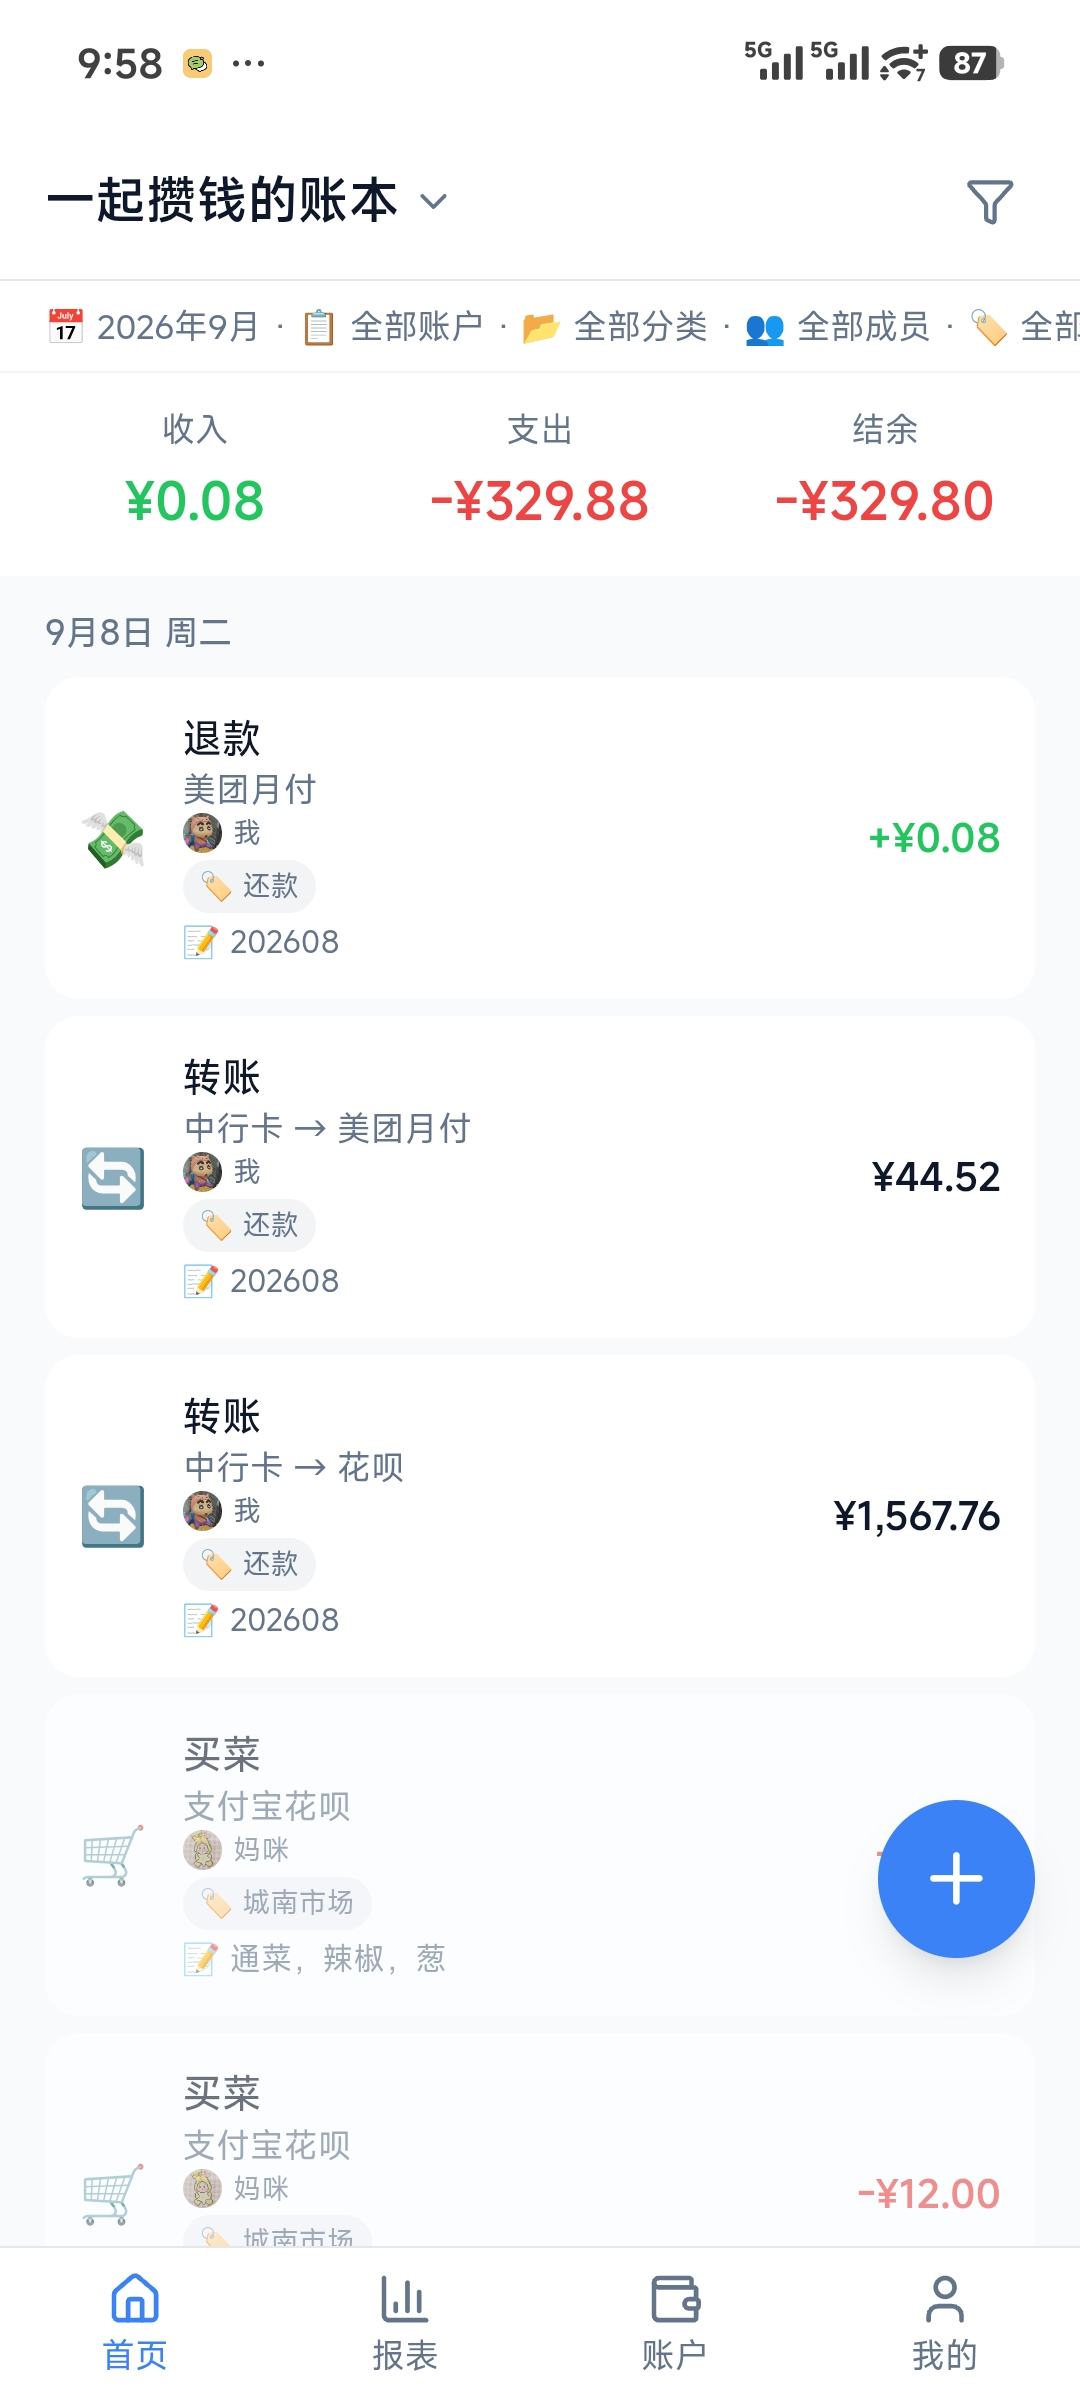
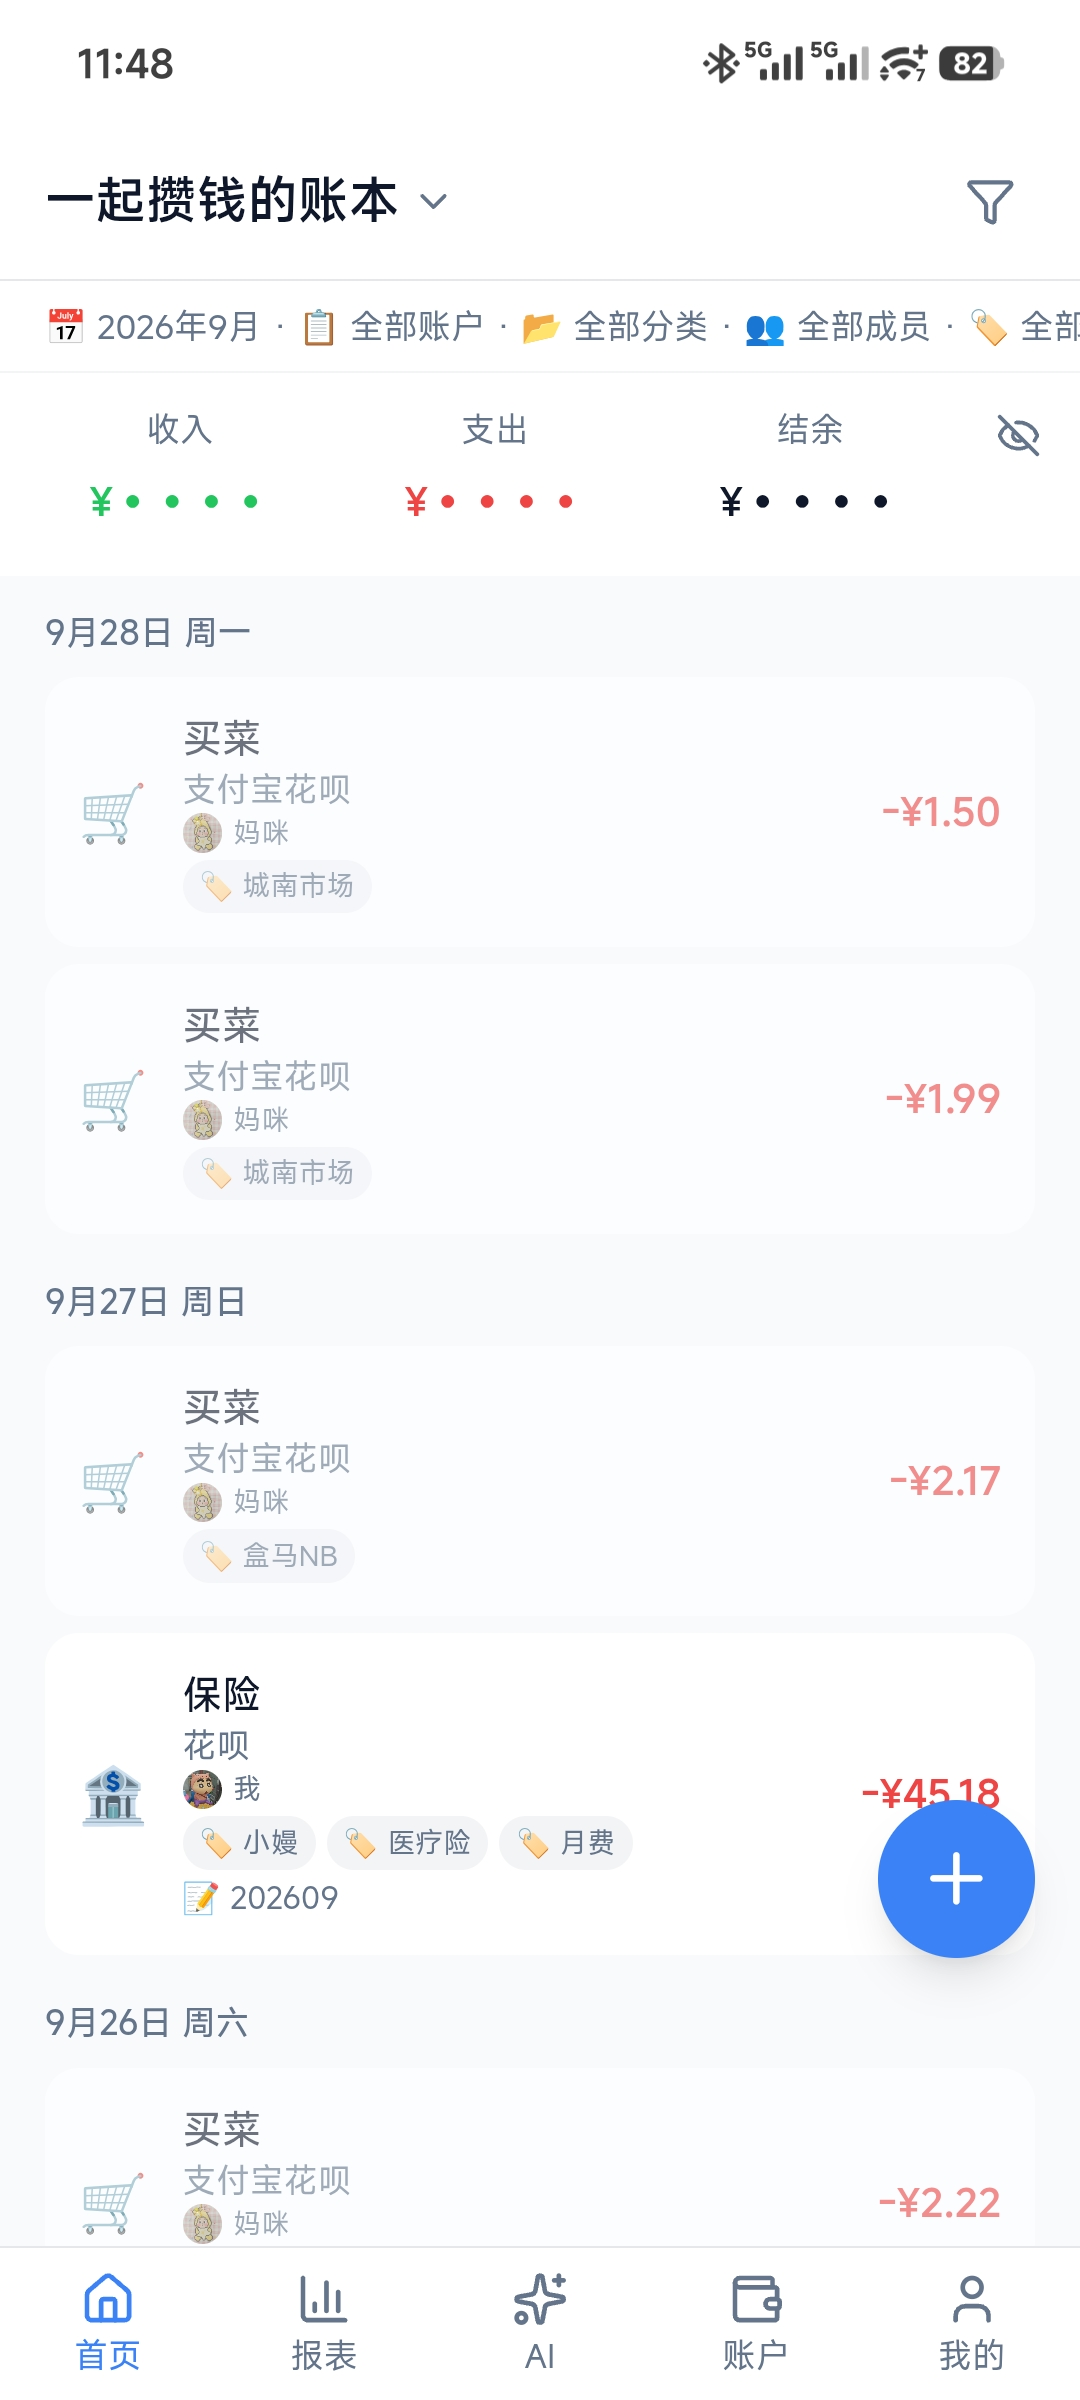
docs(screenshots): 截图区补上 AI 助手与账户管理，标题对齐实际页名
- 截图改为 2x3 排版，新增 Screenshot_ai.jpg / Screenshot_accounts.jpg
- 首页截图标题由「流水」改为「首页」，与底部导航一致
- 更新首页、报表、我的三张实机截图

diff --git a/README.md b/README.md
@@ -8,9 +8,13 @@
 
 ## 截图
 
-| 记账 | 流水 | 报表 | 我的 |
-|:---:|:---:|:---:|:---:|
-| ![记账](docs/screenshots/Screenshot_accounting.jpg) | ![流水](docs/screenshots/Screenshot_index.jpg) | ![报表](docs/screenshots/Screenshot_report.jpg) | ![我的](docs/screenshots/Screenshot_me.jpg) |
+| 首页 | 记账 | 报表 |
+|:---:|:---:|:---:|
+| ![首页](docs/screenshots/Screenshot_index.jpg) | ![记账](docs/screenshots/Screenshot_accounting.jpg) | ![报表](docs/screenshots/Screenshot_report.jpg) |
+
+| 账户 | AI 助手 | 我的 |
+|:---:|:---:|:---:|
+| ![账户](docs/screenshots/Screenshot_accounts.jpg) | ![AI 助手](docs/screenshots/Screenshot_ai.jpg) | ![我的](docs/screenshots/Screenshot_me.jpg) |
 
 ## 功能特性
 
